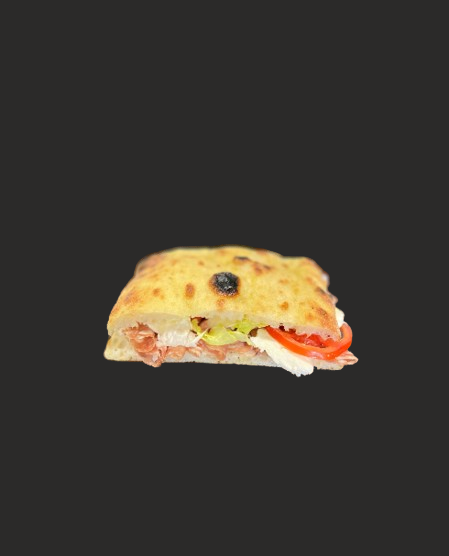
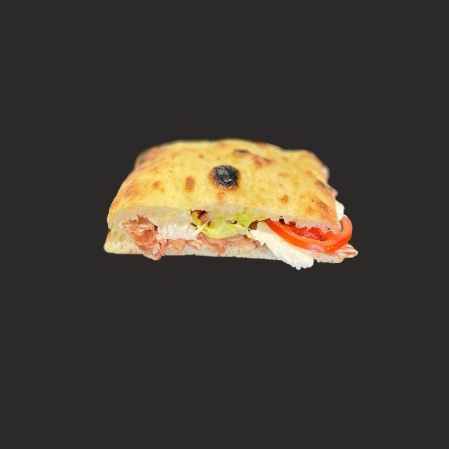
final update

Changed region(s): [[0.2183, 0.2806, 0.8107, 0.686]]

diff --git a/menu.html b/menu.html
@@ -228,7 +228,7 @@
                         <a class="details-button" href="product.html?id=20">Vezi detalii</a>
                     </div>
                     <div class="sandwich-item-right">
-                        <img src="images/sandwich/sandwich cu prosciutto crudo si rucola new.png" style="max-width: 90%; margin-left: 25px;" alt="sandwich photo">
+                        <img src="images/sandwich/sandwich cu prosciutto crudo si rucola new.png" style="max-width:80%; margin-left: 45px;" alt="sandwich photo">
                     </div>
                 </div>
                 <div class="sandwich-item">
@@ -248,7 +248,7 @@
                         <a class="details-button" href="product.html?id=22">Vezi detalii</a>
                     </div>
                     <div class="sandwich-item-right">
-                        <img src="images/sandwich/sandwich salam new.png" alt="sandwich photo">
+                        <img class=special src="images/sandwich/sandwich salam new.png" style="max-width: 100%;" alt="sandwich photo">
                     </div>
                 </div>
                 <div class="sandwich-item">
@@ -258,7 +258,7 @@
                         <a class="details-button" href="product.html?id=23">Vezi detalii</a>
                     </div>
                     <div class="sandwich-item-right">
-                        <img src="images/sandwich/sandwich cu mortadella.png" style="max-width: 90%;" alt="sandwich photo">
+                        <img src="images/sandwich/sandwich cu mortadella.png" style="max-width: 80%;" alt="sandwich photo">
                     </div>
                 </div>
             </div>

diff --git a/foodmenu.css b/foodmenu.css
@@ -248,9 +248,18 @@ h2{
 
     .sandwich-item{
         flex-direction: column-reverse;
-        justify-content: flex-end;
+        justify-content: center;
         width: 100%;
-        height: 80vh;
+        height: 70vh;
+    }
+
+    .sandwich-item-left{
+        width: 80%;
+    }
+
+    .sandwich-container .sandwich-item:nth-child(3) img {
+        width: 100%;
+        height: auto;
     }
 
     .sandwich-item-right{
